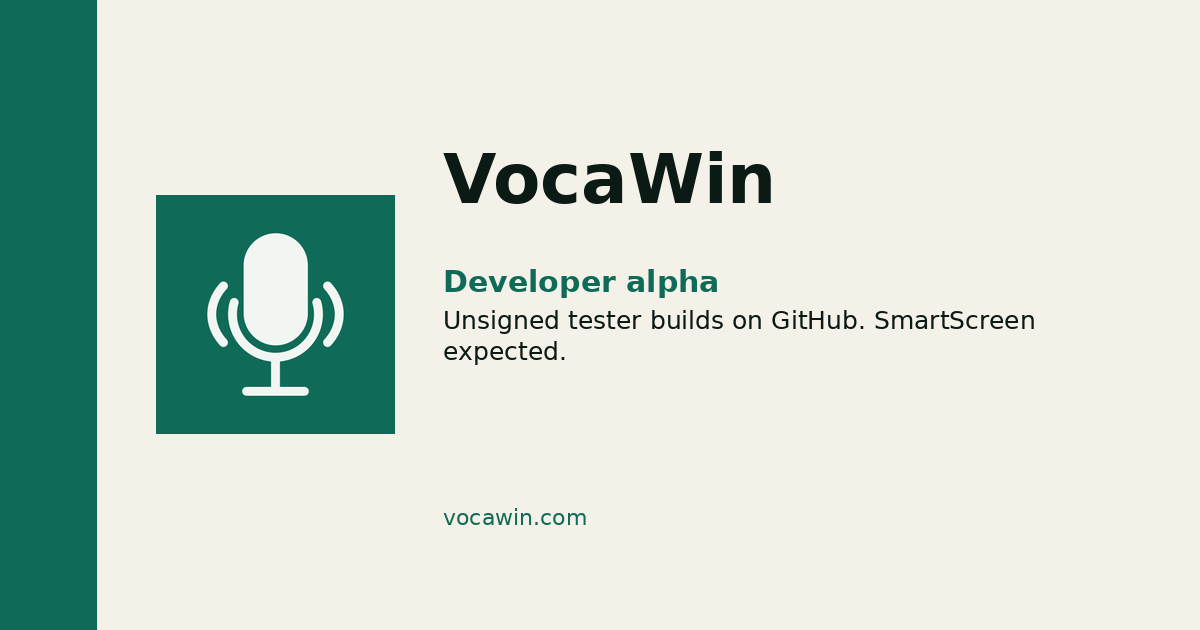
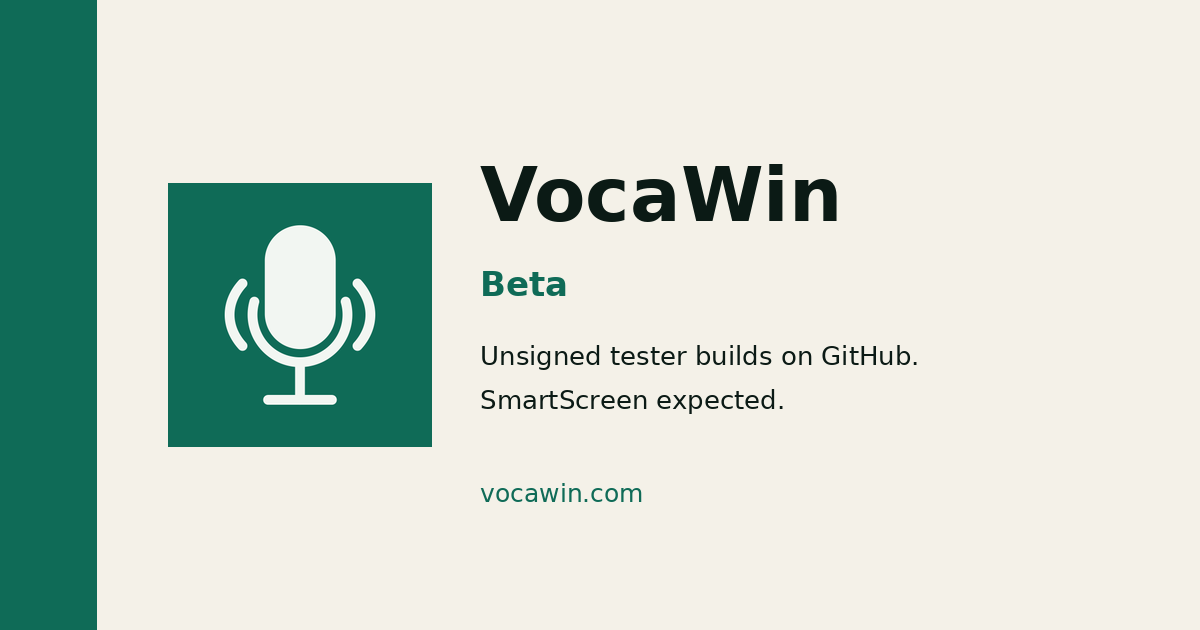
Call VocaWin Beta in family copy.
Status matches Mac. Builds stay unsigned. Latest tag is still v0.1.0-alpha.3. SmartScreen is expected.

Changed region(s): [[0.1233, 0.2413, 0.8633, 0.7238], [0.37, 0.754, 0.5242, 0.8444]]

diff --git a/brand/promo/catalog/src/portrait.html b/brand/promo/catalog/src/portrait.html
@@ -48,7 +48,7 @@
         </div>
         <div class="win mini-win rect">
           <div class="win-bar">
-            <span class="ttl">windows / alpha</span>
+            <span class="ttl">windows / beta</span>
             <span class="win-ctrls">- □ x</span>
           </div>
           <div class="win-body mono sm">&gt; unsigned build</div>
@@ -295,20 +295,20 @@
       <p class="kicker">voca / windows</p>
       <div class="official">VocaWin</div>
     </div>
-    <span class="chip warn">developer alpha</span>
+    <span class="chip warn">beta</span>
   </div>
   <h1 class="display">vocawin</h1>
   <p class="line">voice typing that stays on this PC.</p>
   <div class="facts">
     <span class="fact"><b>status</b>unsigned NSIS/MSI</span>
-    <span class="fact"><b>rel</b>v0.1.0-alpha.1</span>
+    <span class="fact"><b>rel</b>v0.1.0-alpha.3</span>
     <span class="fact"><b>store</b>not a listing</span>
     <span class="fact"><b>lic</b>AGPL-3.0-or-later</span>
   </div>
   <div class="stage">
     <div class="window-col">
       <div class="win rect honest">
-        <h3>unsigned alpha · no screenshot</h3>
+        <h3>unsigned beta · no screenshot</h3>
         <p style="font-size:14pt;font-weight:700;letter-spacing:-0.03em;margin-bottom:10px">Unsigned. Windows will likely say the publisher is unknown.</p>
         <p>Installer lives on GitHub Releases. SmartScreen is expected. This is not a Store listing. This catalog does not invent a VocaWin screenshot.</p>
         <p class="mono" style="margin-top:10px">&gt; github.com/VocaHQ/vocawin/releases</p>
@@ -401,7 +401,7 @@
       <div>
         <div class="dname">VocaWin</div>
         <p class="dline">voice typing that stays on this PC.</p>
-        <div class="dmeta"><span class="chip warn">developer alpha</span><span class="chip">unsigned</span><span class="mono sm muted">vocawin.com</span></div>
+        <div class="dmeta"><span class="chip warn">beta</span><span class="chip">unsigned</span><span class="mono sm muted">vocawin.com</span></div>
       </div>
       <figure class="qr mini"><img src="qr/qr-win.png" alt=""><figcaption>scan</figcaption></figure>
     </article>

diff --git a/brand/promo/catalog/src/landscape.html b/brand/promo/catalog/src/landscape.html
@@ -136,17 +136,17 @@
     <p class="kicker">voca / windows</p>
     <div style="display:flex;justify-content:space-between;align-items:center">
       <div class="official">VocaWin</div>
-      <span class="chip warn">developer alpha</span>
+      <span class="chip warn">beta</span>
     </div>
     <h1 class="display">vocawin</h1>
     <p class="line">voice typing that stays on this PC.</p>
     <div class="facts">
-      <span class="fact">v0.1.0-alpha.1</span>
+      <span class="fact">v0.1.0-alpha.3</span>
       <span class="fact">unsigned NSIS/MSI</span>
       <span class="fact">AGPL-3.0-or-later</span>
     </div>
     <div class="win rect honest">
-      <h3>unsigned alpha · no screenshot</h3>
+      <h3>unsigned beta · no screenshot</h3>
       <p style="margin:0 0 8px;font-weight:700;letter-spacing:-0.02em">Unsigned. Windows will likely say the publisher is unknown.</p>
       <p style="margin:0;font-size:10.5pt;color:var(--muted)">Not a Store listing. SmartScreen expected. Installer on GitHub Releases. This page does not invent a VocaWin screenshot.</p>
     </div>
@@ -233,7 +233,7 @@
     </article>
     <article class="dcard">
       <div class="dname">VocaWin</div>
-      <span class="chip warn" style="margin:6px 0">developer alpha</span>
+      <span class="chip warn" style="margin:6px 0">beta</span>
       <figure class="qr mini"><img src="qr/qr-win.png" alt=""><figcaption>vocawin.com</figcaption></figure>
     </article>
     <article class="dcard">

diff --git a/brand/README.md b/brand/README.md
@@ -129,7 +129,7 @@ product name.
 | [vocahq.com](https://vocahq.com) | Family headquarters |
 | [vocalinux.com](https://vocalinux.com) | VocaLinux product site (**Vocalinux** spelling is a known site exception — §3.2) |
 | [vocamac.com](https://vocamac.com) | VocaMac |
-| [vocawin.com](https://vocawin.com) | VocaWin status / future product |
+| [vocawin.com](https://vocawin.com) | VocaWin |
 | [vocaphone.vocahq.com](https://vocaphone.vocahq.com) | VocaPhone |
 
 ### 3.4 Family vs product identity
@@ -220,7 +220,7 @@ not invent shipping). Always defer to `PRODUCT.md` if it moves:
 | --- | --- | --- |
 | VocaLinux | Available now | Current release **v0.15.0**; Linux X11/Wayland; AGPL-3.0 |
 | VocaMac | Beta | **macOS 14+** Apple Silicon; AGPL-3.0 |
-| VocaWin | Coming soon | No public installer or release; **AGPL-3.0-or-later** in repo |
+| VocaWin | Beta | Unsigned NSIS/MSI on GitHub Releases; latest tag **v0.1.0-alpha.3**. SmartScreen expected. **AGPL-3.0-or-later** in repo |
 | VocaPhone | Android beta / iOS source build | **Android 13+** public beta; **iOS 17+** build from source; gateway optional; AGPL-3.0 |
 | VocaGateway | Early | Optional self-hosted compute; **never on-device**; infrastructure, not a client; AGPL-3.0 |
 
@@ -255,7 +255,7 @@ on-device.** VocaGateway is optional self-hosted compute and is never on-device.
 
 ### 5.4 Shipping honesty
 
-- Never imply VocaWin ships (coming soon; no installer).
+- Never imply VocaWin is signed or a Store app. Tester builds are unsigned. SmartScreen is expected. Do not invent a `v0.1.0-beta.1` tag.
 - Do not fabricate screenshots or release assets for unshipped surfaces.
 - Name licenses per project; **VocaWin is AGPL-3.0-or-later**, not flattened to
   AGPL-3.0.

diff --git a/profile/README.md b/profile/README.md
@@ -14,7 +14,7 @@ Using the tools? Pick your platform below. Want to help build them? You are alre
 |----------|---------|------|------|--------|
 | Linux | **VocaLinux** | [VocaHQ/vocalinux](https://github.com/VocaHQ/vocalinux) | [vocalinux.com](https://vocalinux.com) | Available now |
 | macOS | **VocaMac** | [VocaHQ/vocamac](https://github.com/VocaHQ/vocamac) | [vocamac.com](https://vocamac.com) | Beta |
-| Windows | **VocaWin** | [VocaHQ/vocawin](https://github.com/VocaHQ/vocawin) | [vocawin.com](https://vocawin.com) | Developer alpha |
+| Windows | **VocaWin** | [VocaHQ/vocawin](https://github.com/VocaHQ/vocawin) | [vocawin.com](https://vocawin.com) | Beta |
 | iOS / Android | **VocaPhone** | [VocaHQ/vocaphone](https://github.com/VocaHQ/vocaphone) | [vocaphone.vocahq.com](https://vocaphone.vocahq.com) | Android beta / iOS TestFlight |
 | Gateway | **VocaGateway** | [VocaHQ/vocagateway](https://github.com/VocaHQ/vocagateway) | [vocagateway.vocahq.com](https://vocagateway.vocahq.com) | Early |
 
@@ -27,7 +27,7 @@ You do not need to know the whole family. Start with the platform you actually u
 - Join [Discord](https://discord.gg/t6muquAJbm) and say hello
 - File an issue when something breaks, or when a README skips a step you needed
 - Open a PR. Code, tests, packaging, and clearer docs all count
-- Try a beta, or the unsigned VocaWin alpha, and tell us what failed
+- Try a beta, including unsigned VocaWin, and tell us what failed
 
 Issues and PRs are welcome on every project. Maintained by [@jatinkrmalik](https://github.com/jatinkrmalik) and [@Mr-Sunglasses](https://github.com/Mr-Sunglasses).
 

diff --git a/brand/promo/copy/product-hunt.md b/brand/promo/copy/product-hunt.md
@@ -6,7 +6,7 @@ Tagline (260): Voca is a family of speech-to-text apps. Hold a hotkey, speak, an
 
 ## Maker comment
 
-Voca is the family. Linux is available now (v0.15.0). Mac is beta on macOS 14+ Apple Silicon. Windows is a developer alpha: unsigned NSIS and MSI on GitHub Releases, SmartScreen expected. Phone is an Android 13+ public beta; iOS 17+ is a source build. Gateway is early optional compute on a machine you run. It is never on-device.
+Voca is the family. Linux is available now (v0.15.0). Mac is beta on macOS 14+ Apple Silicon. Windows is beta: unsigned NSIS and MSI on GitHub Releases, SmartScreen expected. Phone is an Android 13+ public beta; iOS 17+ is a source build. Gateway is early optional compute on a machine you run. It is never on-device.
 
 We do not have a Voca cloud or a Voca account. A first model download uses the network. After that, audio stays on that device unless you point a client at VocaGateway on purpose.
 
@@ -18,4 +18,4 @@ Gallery: card-family-ph.png, then the per-product ph cards. No fake Win screensh
 
 ## First comment (short)
 
-Linux is the one you can install today. Mac is beta. Win is an unsigned tester build. Phone Android is a public beta. Gateway is a host, not a client.
+Linux is the one you can install today. Mac is beta. Win is an unsigned beta. Phone Android is a public beta. Gateway is a host, not a client.

diff --git a/brand/promo/copy/twitter.md b/brand/promo/copy/twitter.md
@@ -8,7 +8,7 @@
 
 3. VocaMac is beta on macOS 14+ Apple Silicon. Homebrew or a DMG. vocamac.com [card-mac-square.png]
 
-4. VocaWin is a developer alpha. Unsigned tester builds are on GitHub. SmartScreen / unknown publisher is expected. vocawin.com [card-win-square.png]
+4. VocaWin is beta. Unsigned tester builds are on GitHub. SmartScreen / unknown publisher is expected. vocawin.com [card-win-square.png]
 
 5. VocaPhone: Android 13+ public beta. iOS 17+ is a source build if you have a Mac and a signing team. vocaphone.vocahq.com [card-phone-square.png]
 
@@ -22,7 +22,7 @@
 
 - Linux is ready: VocaLinux v0.15.0. Hold a hotkey, speak, text at the cursor. vocalinux.com
 - Mac testers: VocaMac is beta on Apple Silicon, macOS 14+. vocamac.com
-- Windows testers: unsigned VocaWin alpha on GitHub Releases. SmartScreen will complain. That is expected.
+- Windows testers: unsigned VocaWin beta on GitHub Releases. SmartScreen will complain. That is expected.
 - Android 13+ can try VocaPhone. iOS is still a source build. vocaphone.vocahq.com
 - Need a host on the LAN? VocaGateway. Never call it on-device.
 - No Voca account. No hosted speech API. vocahq.com

diff --git a/brand/promo/copy/reddit.md b/brand/promo/copy/reddit.md
@@ -1,6 +1,6 @@
 # Reddit drafts
 
-Do not lead with AI-powered. Do not say 100% offline. Do not call Gateway on-device. Win is an unsigned alpha, not a Store app.
+Do not lead with AI-powered. Do not say 100% offline. Do not call Gateway on-device. Win is an unsigned beta, not a Store app.
 
 ## r/linux
 
@@ -29,7 +29,7 @@ The default path is still on-device on the client. Gateway is optional.
 
 Title: Voca: speech-to-text with no Voca account and no hosted speech API
 
-Body: Family of apps (Linux available now, Mac beta, Win unsigned alpha, Android beta). Default path: model on the device, audio stays there after the download. Optional self-hosted gateway if you want a box on your network.
+Body: Family of apps (Linux available now, Mac beta, Win unsigned beta, Android beta). Default path: model on the device, audio stays there after the download. Optional self-hosted gateway if you want a box on your network.
 
 https://vocahq.com
 https://github.com/VocaHQ

diff --git a/brand/promo/truth.md b/brand/promo/truth.md
@@ -6,7 +6,7 @@ Canonical source: VocaHQ/vocahq PRODUCT.md (verified 2026-08-18).
 | --- | --- | --- | --- |
 | VocaLinux | Available now, v0.15.0 | vocalinux.com | 100% offline; Vocalinux as the family name |
 | VocaMac | Beta, macOS 14+ Apple Silicon | vocamac.com | Stable / Intel |
-| VocaWin | Developer alpha, unsigned GitHub Releases v0.1.0-alpha.1 | vocawin.com | Signed Store build; fake screenshots; 100% offline |
+| VocaWin | Beta, unsigned GitHub Releases (latest tag v0.1.0-alpha.3) | vocawin.com | Signed Store build; fake screenshots; 100% offline |
 | VocaPhone | Android 13+ public beta; iOS 17+ source | vocaphone.vocahq.com | App Store / TestFlight as the iOS path |
 | VocaGateway | Early, optional host | github.com/VocaHQ/vocagateway | On-device; Voca cloud |
 

diff --git a/brand/promo/catalog/README.md b/brand/promo/catalog/README.md
@@ -21,7 +21,7 @@ QR codes (print-safe, quiet zone): [qr/](qr/). Each product page points at that 
 
 ## What is in each book
 
-Portrait: cover (one voice / every machine + ecosystem.map), manifesto, two paths, VocaLinux, VocaMac, VocaPhone, VocaWin (honest alpha, no invented screenshot), VocaGateway (1U host mark, never on-device), family directory, QR wall.
+Portrait: cover (one voice / every machine + ecosystem.map), manifesto, two paths, VocaLinux, VocaMac, VocaPhone, VocaWin (unsigned beta, no invented screenshot), VocaGateway (1U host mark, never on-device), family directory, QR wall.
 
 Landscape: split cover, Linux+Mac spread, Phone+Win spread, Gateway + two paths, manifesto + directory strip, QR wall.
 

diff --git a/brand/vocawin/README.md b/brand/vocawin/README.md
@@ -11,4 +11,4 @@ VocaWin reuses the family microphone from `brand/vocahq/`. There is no unique Wi
 
 Previews at true size: `previews/`.
 
-Cite `brand/README.md` §7, §9, and §10. Public status is Developer alpha per PRODUCT.md.
+Cite `brand/README.md` §7, §9, and §10. Public status is Beta per PRODUCT.md. Builds stay unsigned. Latest tag is v0.1.0-alpha.3.

diff --git a/brand/promo/cards/studies/2026-08-24-win-alpha/README.md b/brand/promo/cards/studies/2026-08-24-win-alpha/README.md
@@ -1,0 +1,1 @@
+Old VocaWin cards that said Developer alpha. Live cards now say Beta. Unsigned / SmartScreen line unchanged.
